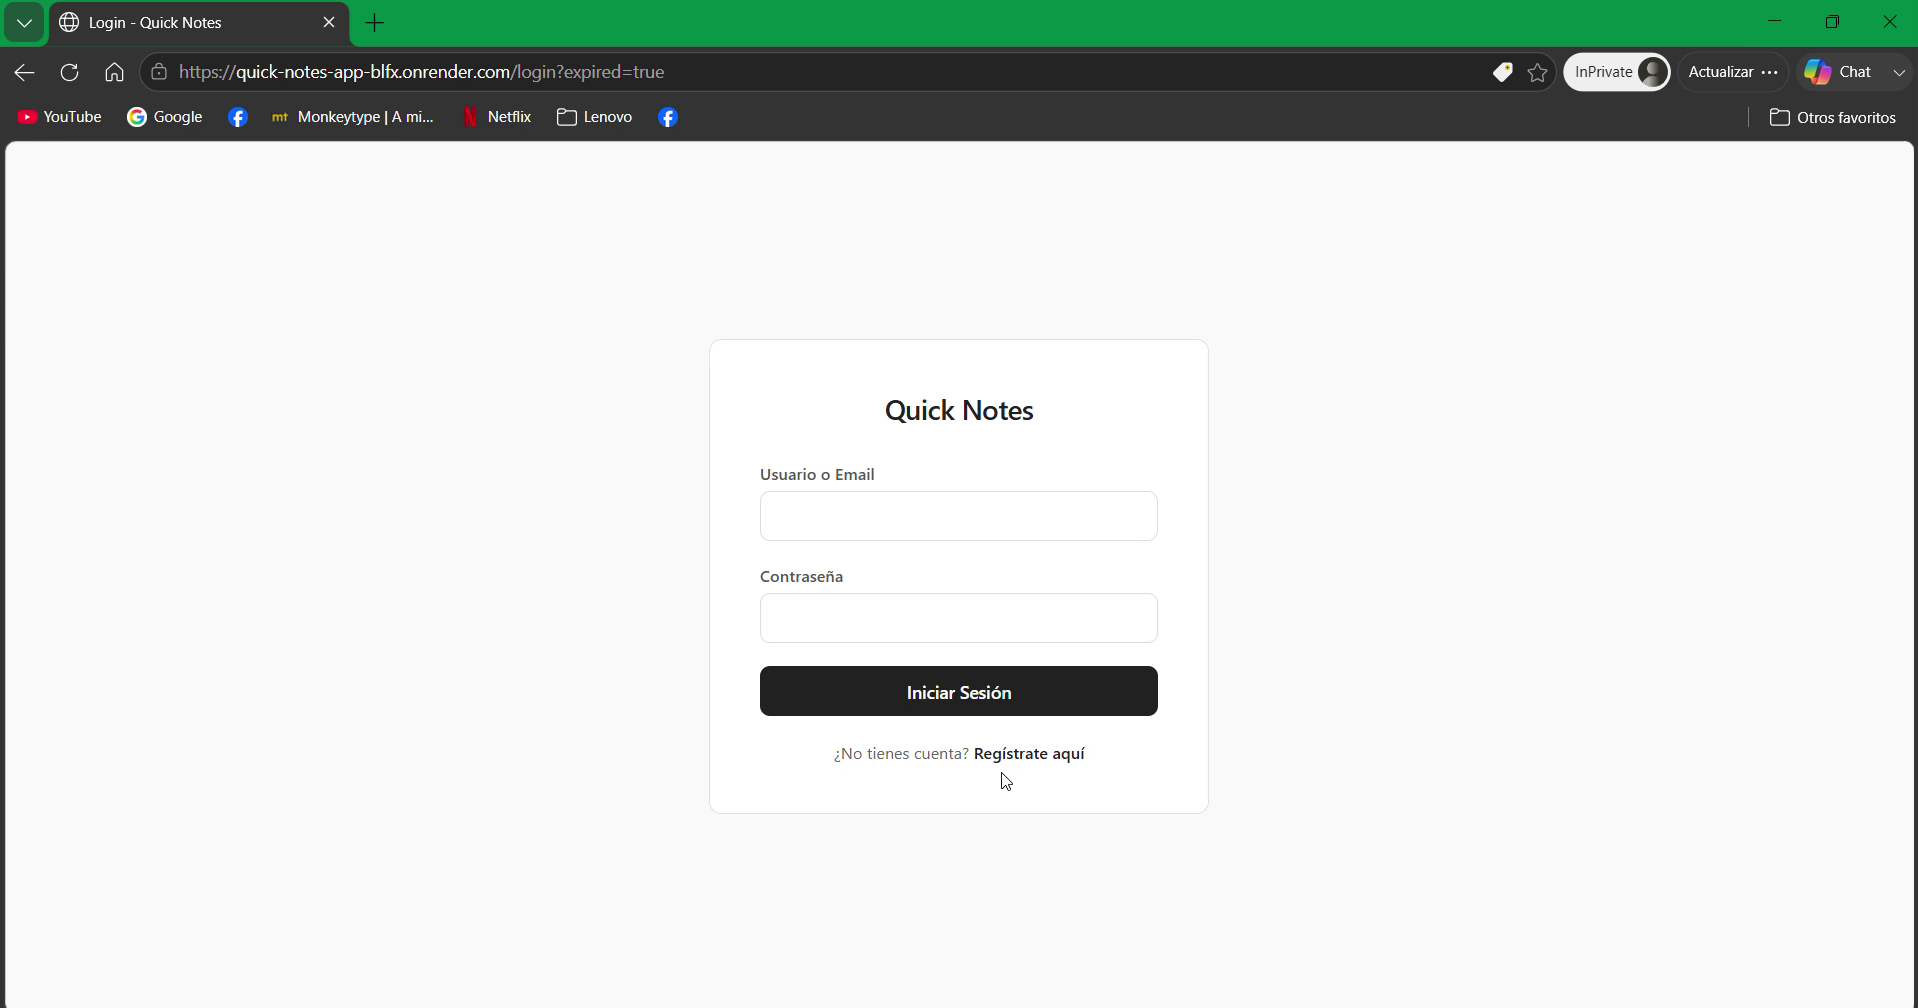
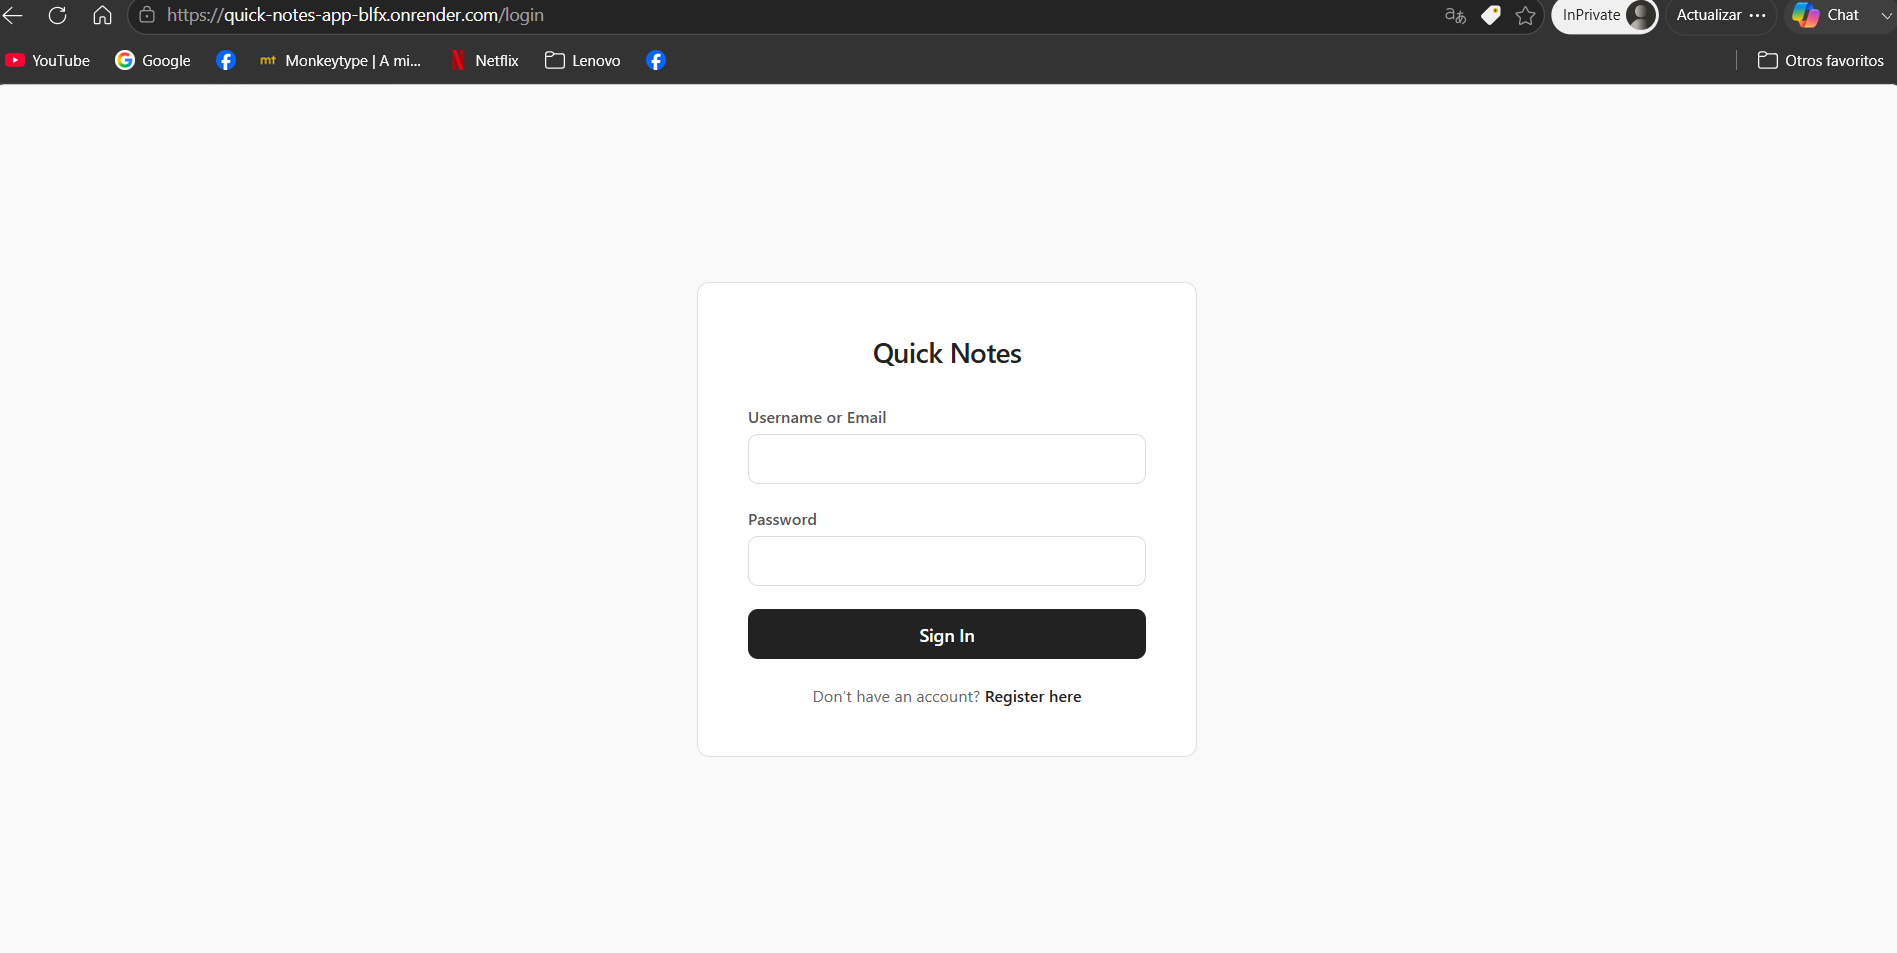
Readme file updated

diff --git a/README.md b/README.md
@@ -136,23 +136,61 @@ The application supports:
 
 ### Login
 
-![Login](docs/screenshots/login.png)
+![Login](docs/register/login_screen.png)
 
-### Notes Dashboard
+### Register 
+![Register](docs/register_screen.png)
 
-![Notes](docs/screenshots/notes.png)
+### All Notes view
 
-### Notebook View
+![All Notes](docs/all_notes_view.png)
 
-![Notebook](docs/screenshots/notebook.png)
+### Notebooks View
 
-### Bibliography View
+![Notebooks](docs/notebooks_view.png)
 
-![Bibliography](docs/screenshots/bibliography.png)
+### Folders View
+
+![Folders](docs/folders_view.png)
+
+### Bibliographies View
+
+![Bibliographies](docs/bibliographies_view.png)
+
+### New note creation
+
+![New note creation](docs/new_note_modal.png)
+
+### Notes repository
+![Notes repository](docs/note_created.png)
+
+### New notebook creation
+
+![New notebook form](docs/new_notebook_form.png)
+
+### Notebook inside notebook
+
+![Notebook inside notebook](docs/notebook_inside_notebook.png)
+
+### New bibliography creation
+
+![New notebook form](docs/new_bibliography_form.png)
+
+### Inheritance of properties
+
+![Inheritance of properties](docs/inheritance_of_properties.png)
+
+### Filters inheritance
+
+![Filters inheritance](docs/filters_inheritance.png)
+
+### Relation many to many
+
+![Many to Many(docs/relation_many_to_many.png)
 
 ---
 
-## 🚀 Local Installation
+## Local Installation
 
 Clone the repository:
 
@@ -208,7 +246,7 @@ http://127.0.0.1:8000
 
 ---
 
-## 📚 What I Learned
+## What I Learned
 
 Through this project, I gained practical experience with:
 
@@ -225,7 +263,7 @@ Through this project, I gained practical experience with:
 
 ---
 
-## 🔮 Future Improvements
+## Future Improvements
 
 * Full mobile responsiveness
 * Rich text editor
@@ -240,7 +278,7 @@ Through this project, I gained practical experience with:
 
 ---
 
-## 👨💻 Author
+## Author
 
 **Jose Daniel Tirado Ramirez**
 